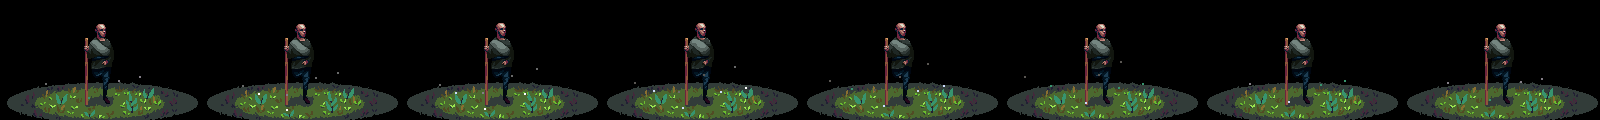
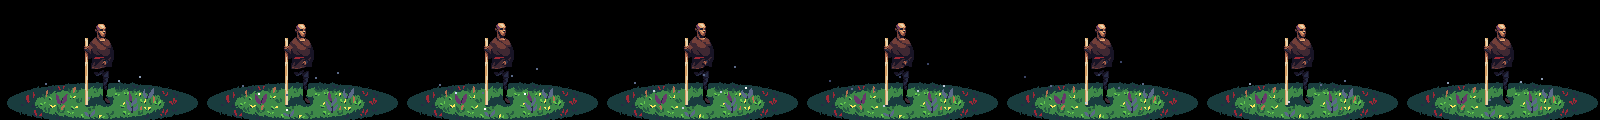
updated starting scene colors

diff --git a/core/src/com/lovely/games/CaenMain.java b/core/src/com/lovely/games/CaenMain.java
@@ -1214,7 +1214,7 @@ public class CaenMain extends ApplicationAdapter implements Stage {
             newGameScene.update(this);
             batch.setProjectionMatrix(camera.combined);
             batch.begin();
-            Vector2 pos = new Vector2(camera.position.x - 100, camera.position.y - 100);
+            Vector2 pos = new Vector2(camera.position.x - 100, camera.position.y - 10);
             newGameScene.render(batch, pos);
             batch.end();
         }
